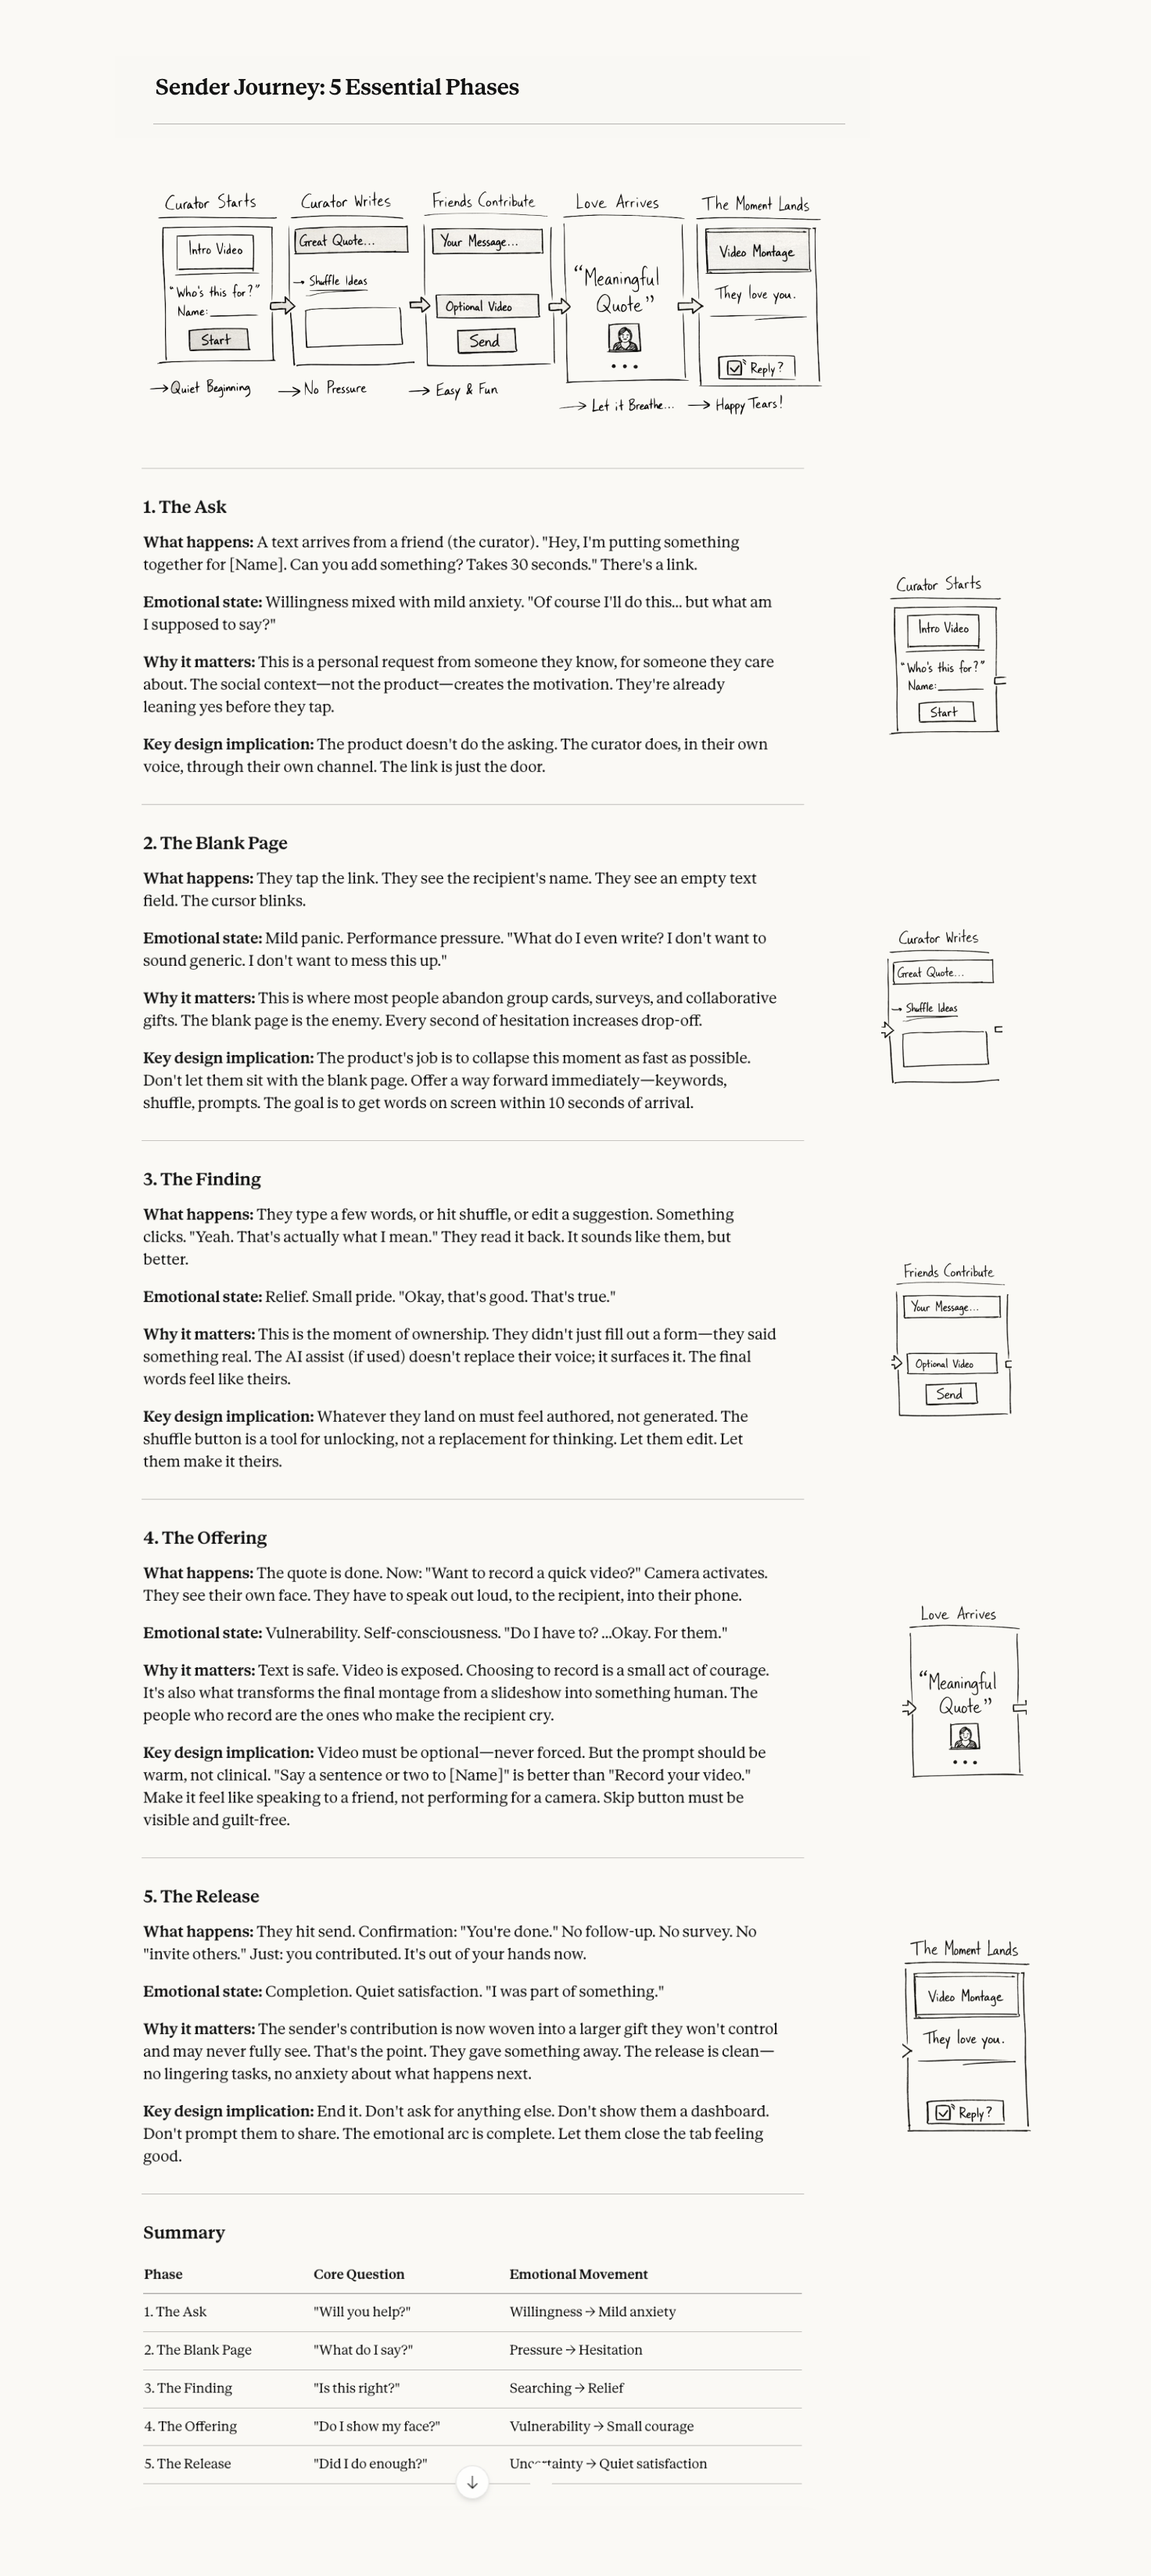
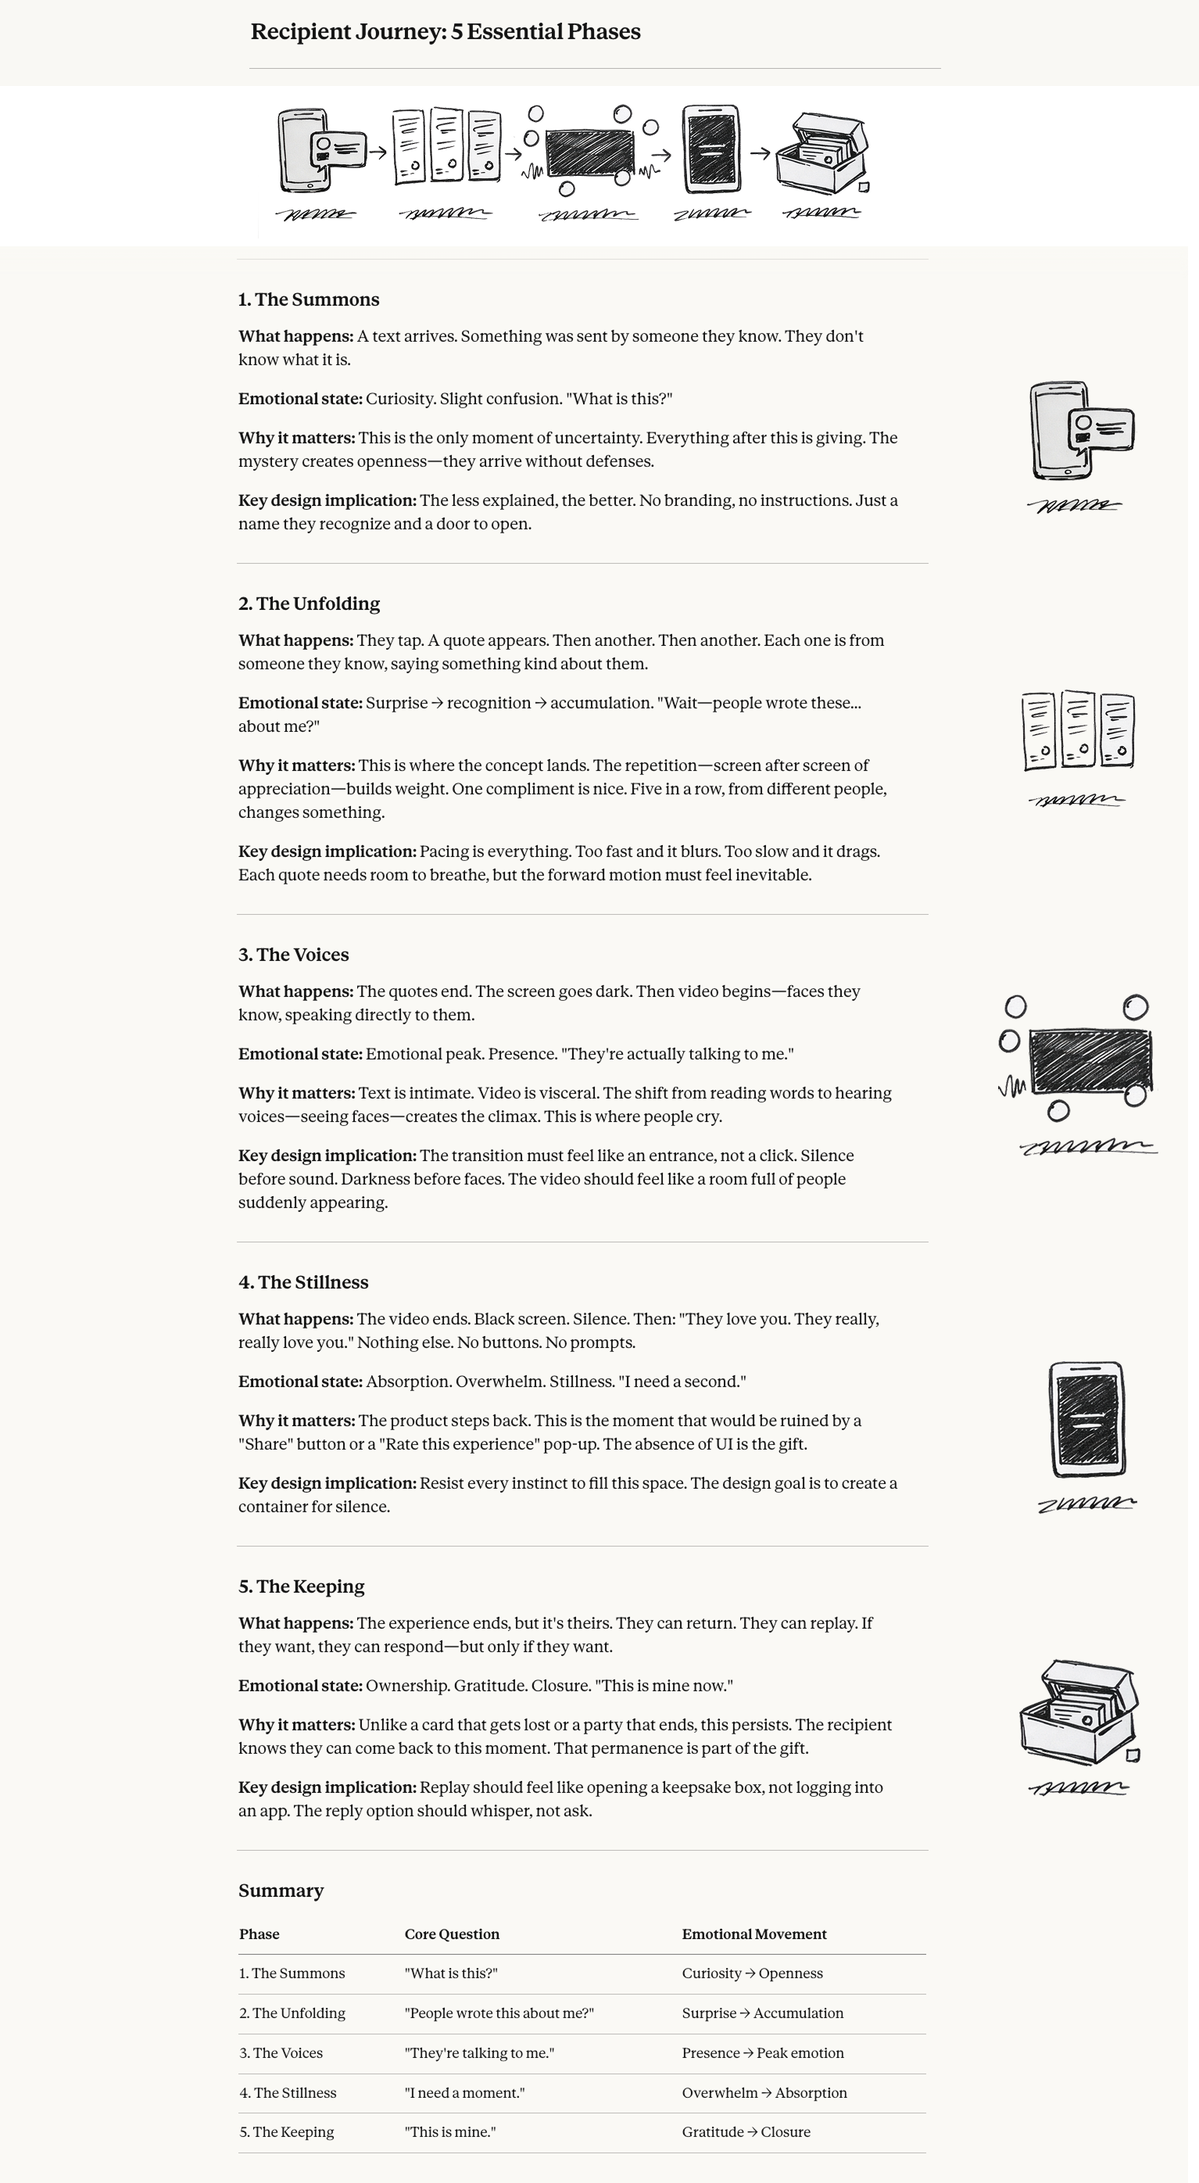
Fix recipient journey artifact rendering
🤖 Generated with [Claude Code](https://claude.com/claude-code)

diff --git a/src/app/sequence/page.tsx b/src/app/sequence/page.tsx
@@ -1,8 +1,17 @@
+import Image from "next/image";
+
 export default function SequencePage() {
   return (
     <div className="min-h-screen p-8" style={{ backgroundColor: "rgb(249, 248, 244)" }}>
       <div className="mx-auto w-full max-w-[1200px] overflow-x-hidden">
-        <img src="/journey/recipient-journey.png" alt="Recipient journey" className="block w-full h-auto" />
+        <Image
+          src="/journey/recipient-journey.png"
+          alt="Recipient journey"
+          width={1200}
+          height={800}
+          className="block w-full h-auto"
+          priority
+        />
       </div>
     </div>
   );
